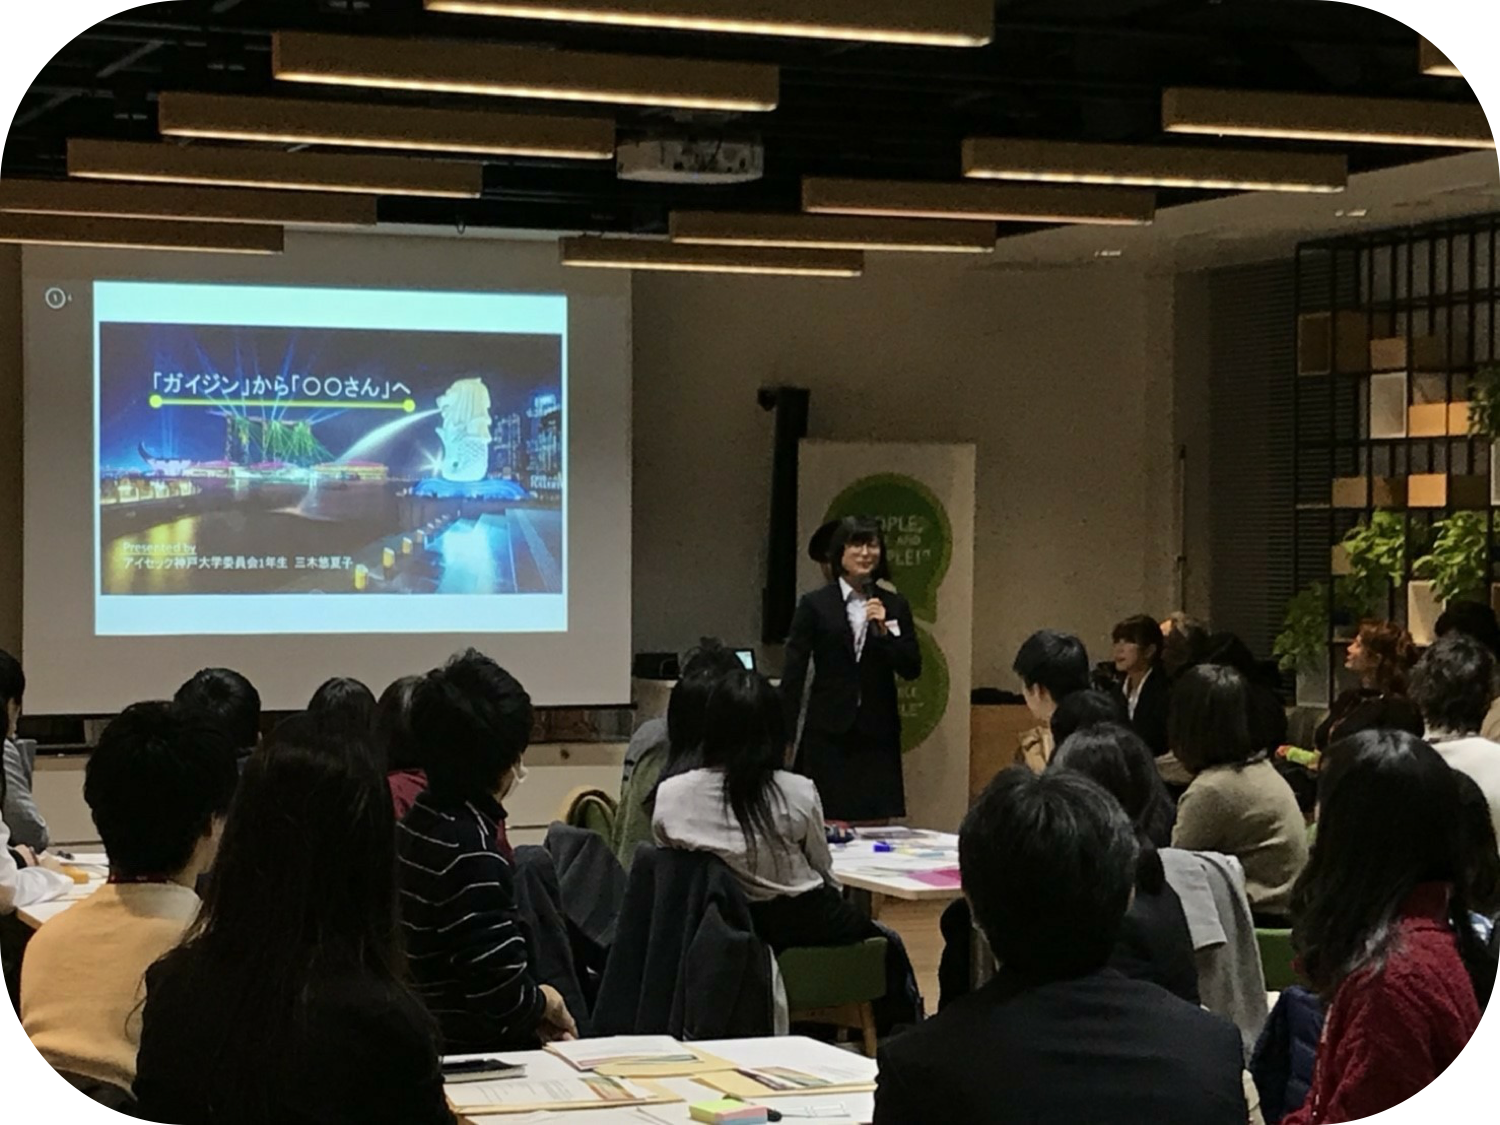
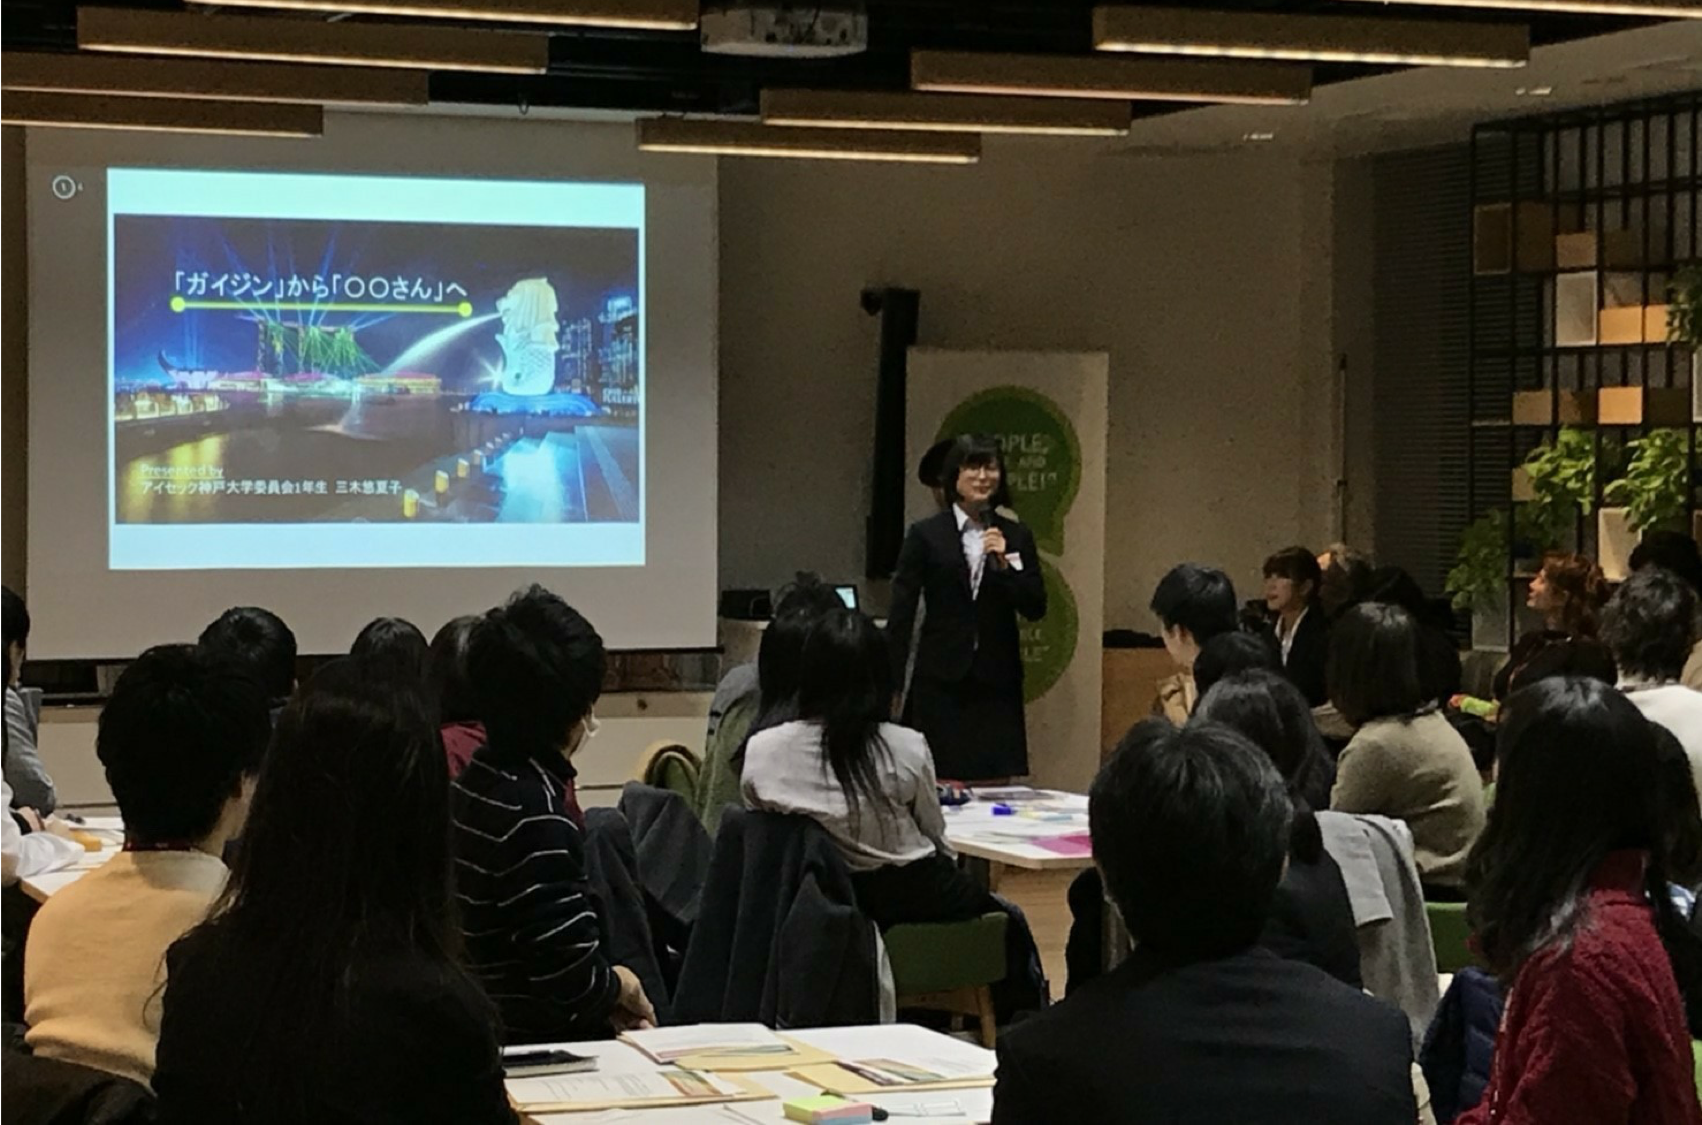
新しいTNの追加、研修前写真の変更、TNのロゴに各社のリンクをつけた。

diff --git a/nest-lp.html b/nest-lp.html
@@ -148,13 +148,13 @@
 						</div>
 						<div class="support-boxes">
 							<div class="support-box left">
-								<img src="nest-internship-before.jpg">
+								<img src="nest-internship-before2.jpg">
 								<h2>渡航前</h2>
 								<h3>日本にいる外国人の現状を知る</h3>
 								<p>神戸で暮らす多様なバックグランドを持つ人々との国際交流系イベント。今日の「移民問題」を他人事のような社会課題としてではなく、「友達の抱える悩み」という身近な問題として捉える意識改革が起こります。</p>
 							</div>
 							<div class="support-box right">
-								<img src="nest-internship-after.jpg">
+								<img src="nest-internship-after.png">
 								<h2>渡航後</h2>
 								<h3>インターンシップで得た学びを発信する</h3>
 								<p>インターンシップでの様々な経験をぐっと凝縮して、自分が得た学びを言語化発信するプレゼン機会としてのイベントを開催します。</p>
